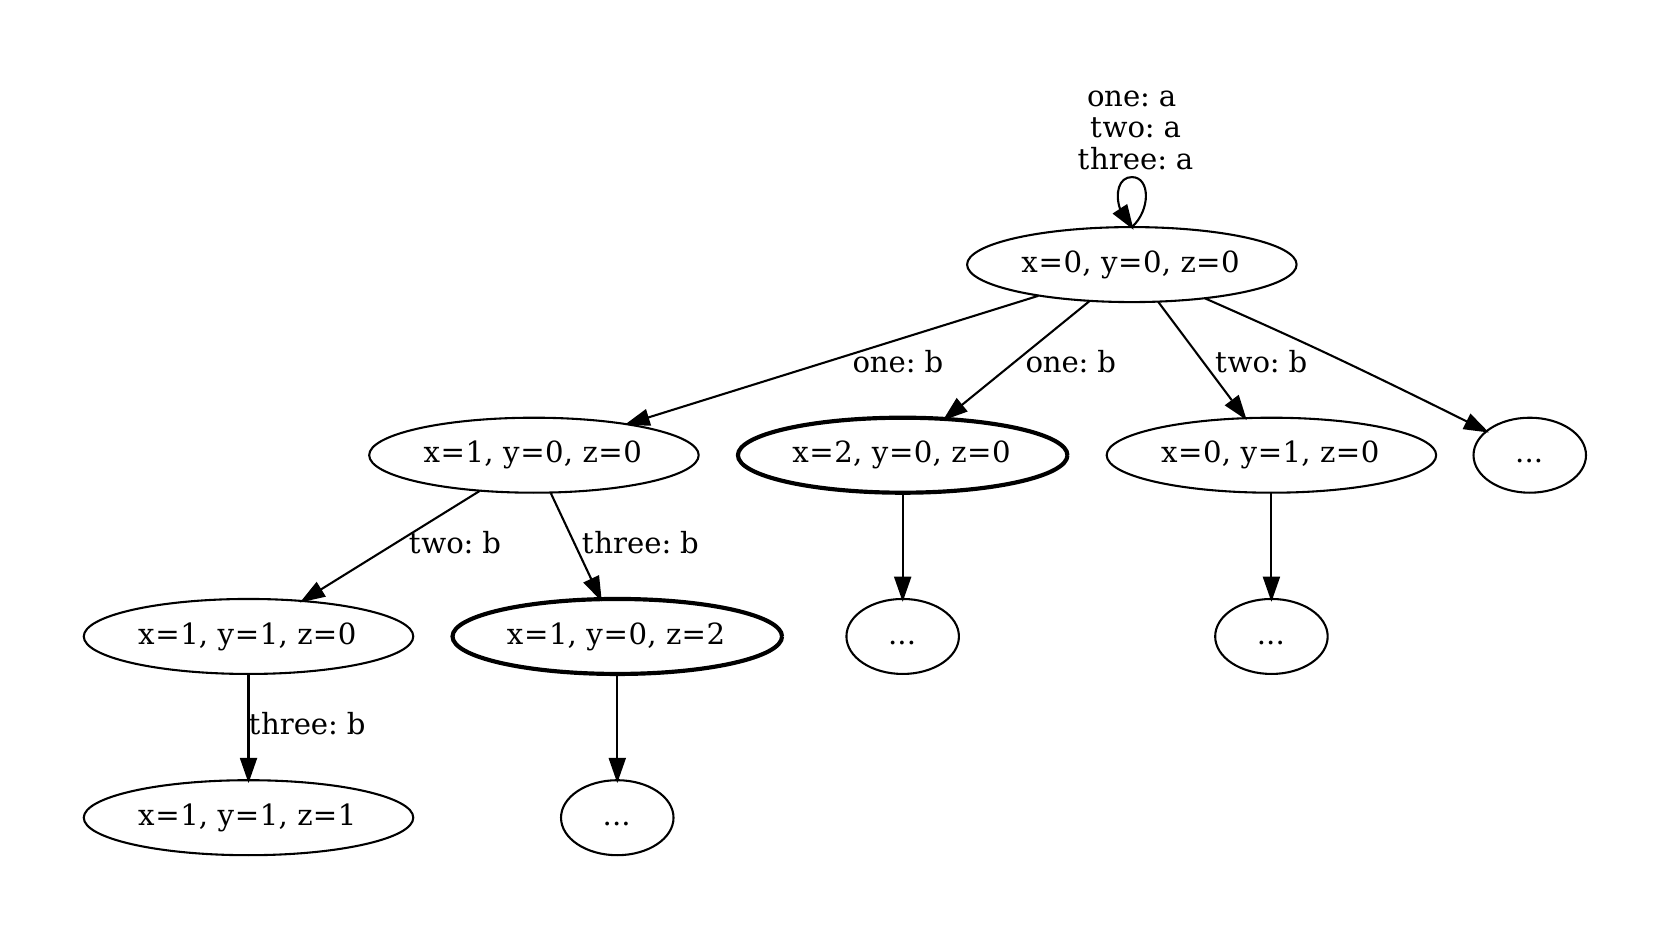
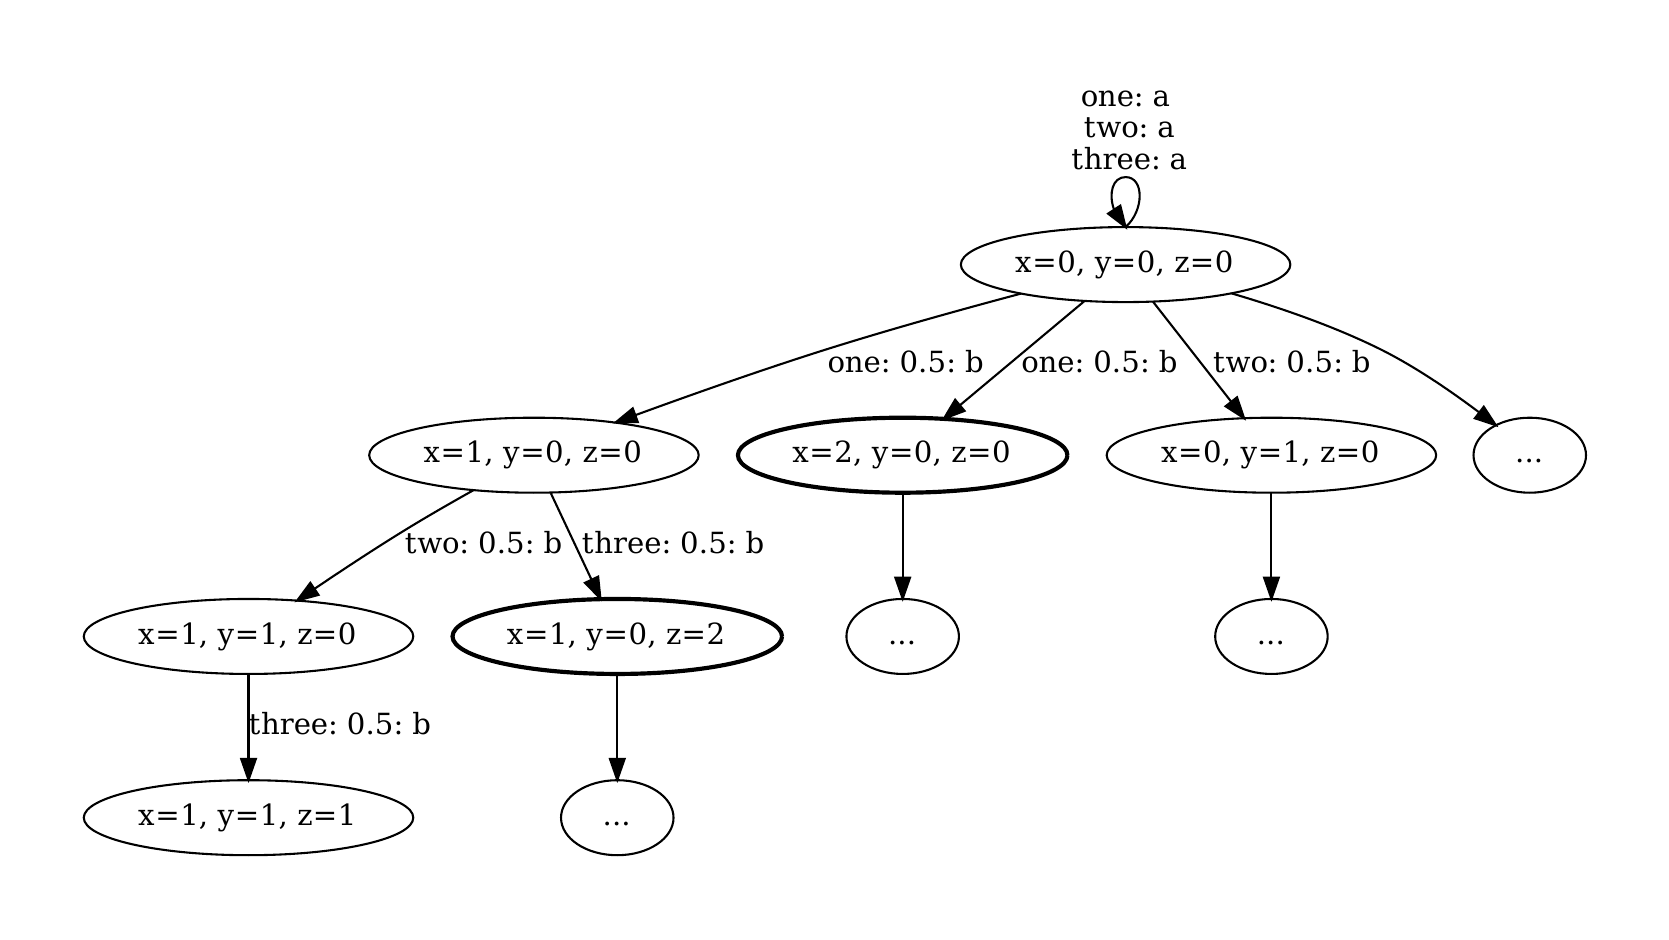
:memo: Update examples

diff --git a/examples/examples.md b/examples/examples.md
@@ -1,5 +1,7 @@
 # Examples 
 
+The examples in this folder are taken from [storm](https://github.com/moves-rwth/storm/tree/master/resources/examples/testfiles/mdp).
+
 ## 1. Cycle
 At first, we take a look at the file cycle.nm, which can be found in this folder. The mdp model file consists of three modules. Each module manipulates one of the variables x, y, z. If the respective variable is zero, then it is either increased to one or two with equal probability by choosing action b, or remains unchanged by choosing action a.  
 To get a better understanding of the model, we partially created its MDP graph:
@@ -7,6 +9,8 @@ To get a better understanding of the model, we partially created its MDP graph:
 
 Assume that we are interested in reaching a state where at least one of the variables is set to two with maximal probability. Thus our property looks like this:  
     ***Pmax=? [ F "goal" ]***,  where we use ***label "goal" = ((x>=2) | (y>=2) | (z>=2));***.  
+
+
 We then generate a decision tree to get a better understanding of the actions and state values, that lead to goal states:
 
 ```bash
@@ -20,3 +24,15 @@ The decision tree teaches us that regardless of the current state, the action of
 
 ## 2. Coin flips
 
+Again, we first take a look at the model file coin_flips.nm. This example models a system that counts from zero to N=20. The actions with the flip identifier are executed simultaneously for the module count and coin. Thus, either the value of x is increased by one and the variables heads and tails are set to opposite values, or both heads and tails are set to false.
+
+Again, we partially visualize the corresponding MDP: 
+<img src="coin_flips_mdp-1.png" alt="Coin flips MDP">
+
+We check the following property:   
+    ***Pmax=? [ F "goal" ]***,  where we use ***label "goal" = x=N;***.  
+
+We obtain the following decision tree: 
+<img src="coin_flips_graph-1.png" alt="Decision tree">
+
+The decision tree teaches us that choosing action flip is always good. On the other hand, selecting action b if we are in a state, where tails and heads are false, is bad, as this means that we loop and don't make progress towards our goal of reaching state x=N.
